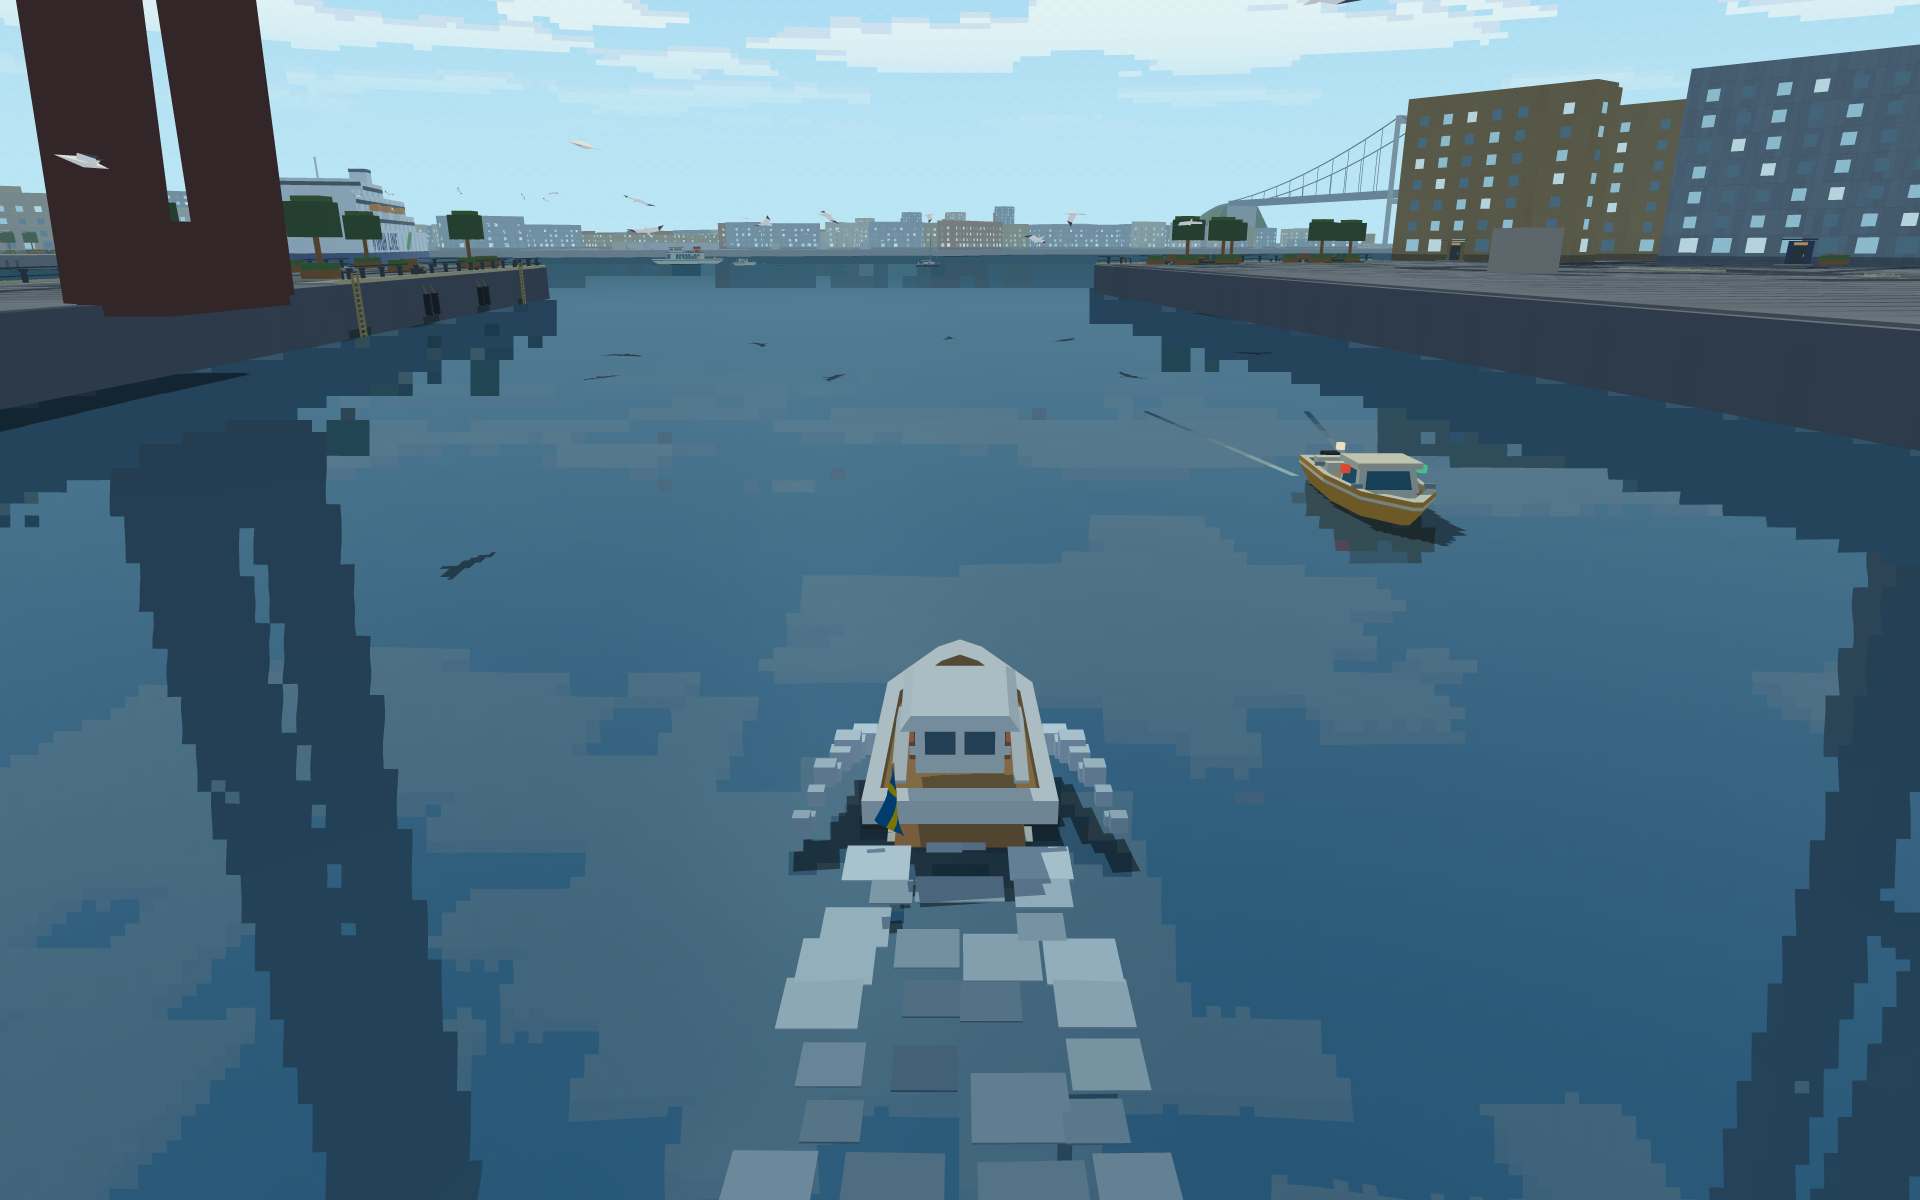
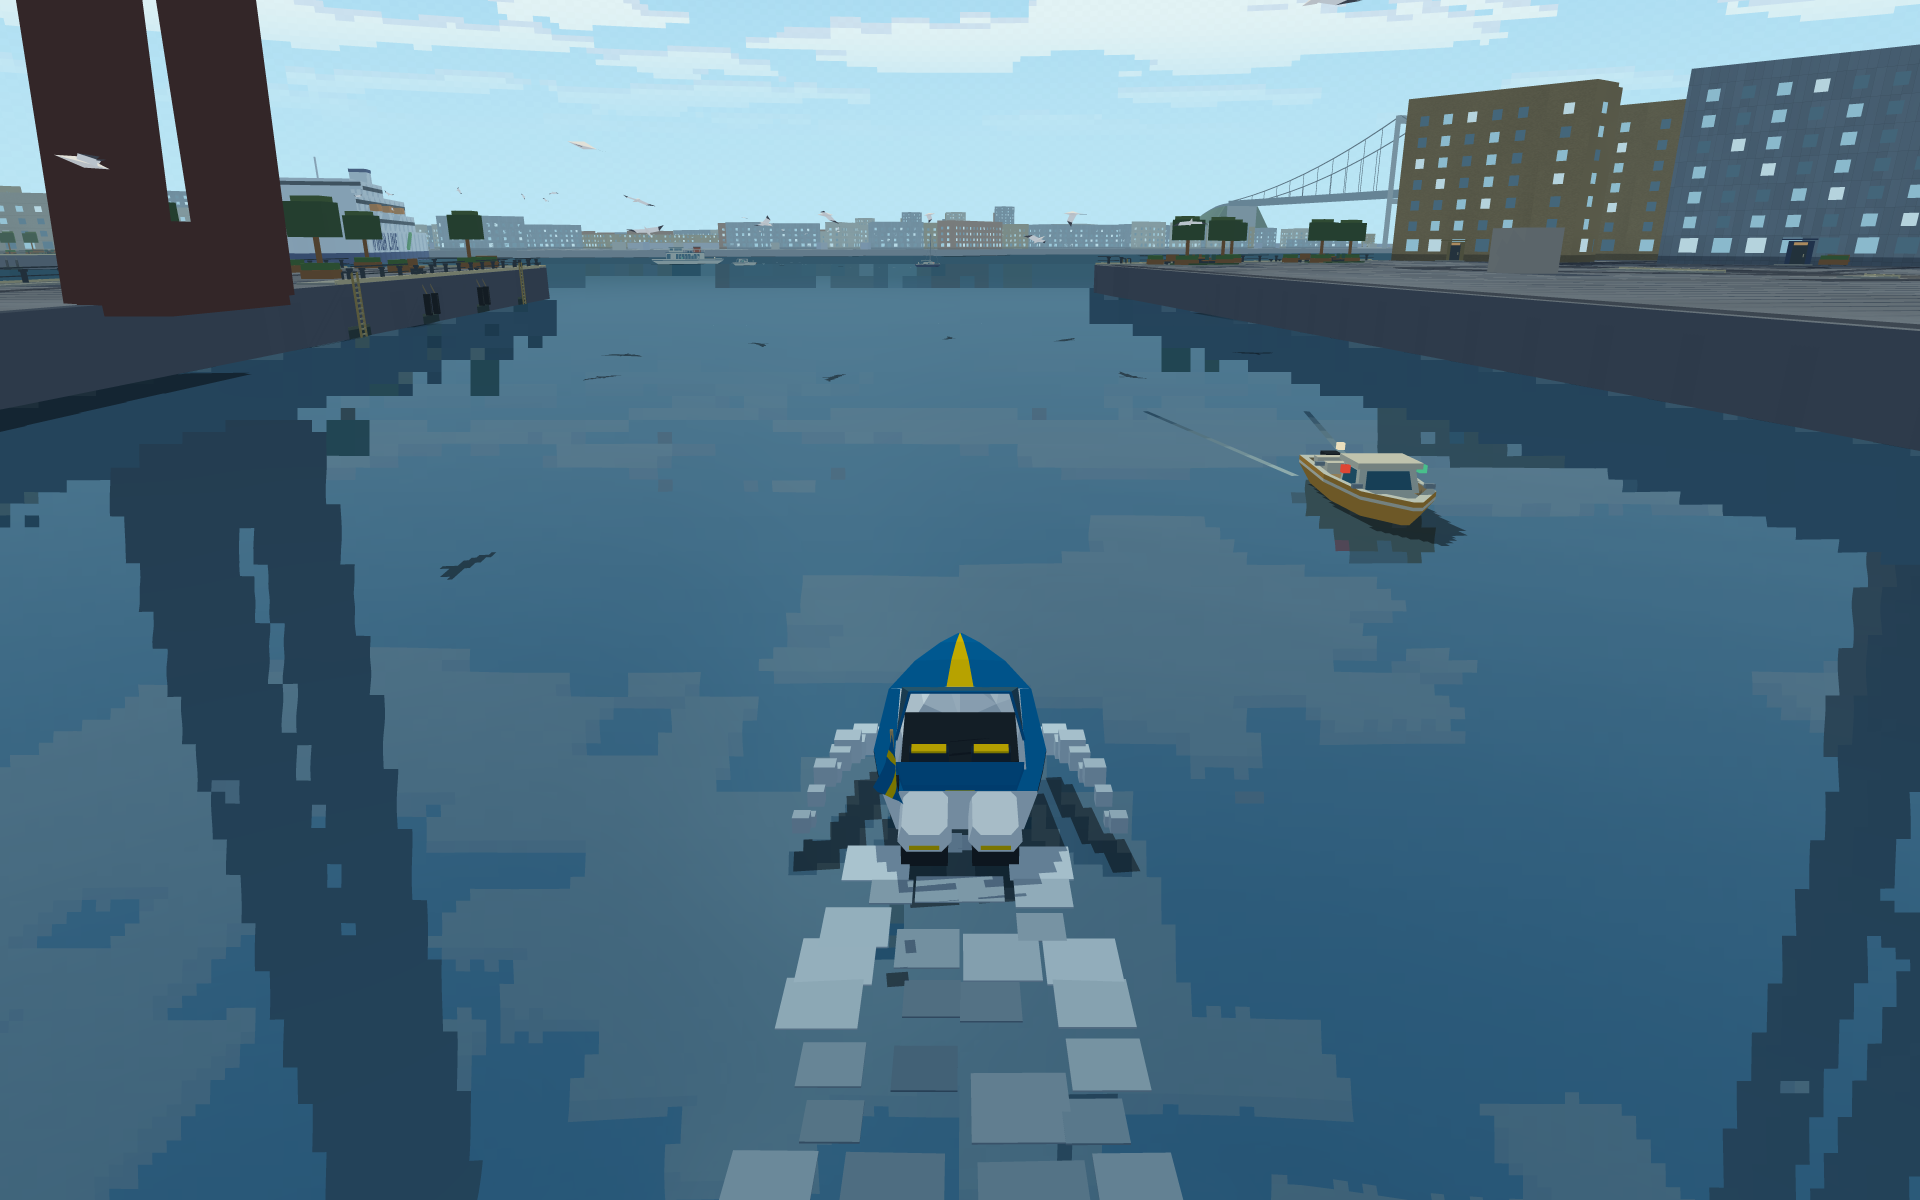
Use sans-serif Play label and Sweden boat preview

Changed region(s): [[0.4375, 0.5242, 0.5625, 0.7708], [0.4375, 0.7708, 0.4688, 0.8017]]

diff --git a/web/index.html b/web/index.html
@@ -20,7 +20,7 @@
     h1 { margin: 0 0 16px; font-size: 12px; font-weight: 500; letter-spacing: .22em; color: #afc2c4; }
     .preview { aspect-ratio: 16 / 9; border: 1px solid #43565b; background: #426779 url('river.png') center 48% / cover; }
     button, summary { font: inherit; }
-    #play { margin-top: 16px; width: 100%; min-height: 64px; display: flex; align-items: center; justify-content: center; gap: 14px; border: 1px solid #e5edcd; border-radius: 2px; background: #dbe7b3; color: #1b302f; font-size: 16px; font-weight: 700; letter-spacing: .18em; cursor: pointer; box-shadow: inset 0 -4px 0 #b6c58e; }
+    #play { margin-top: 16px; width: 100%; min-height: 64px; display: flex; align-items: center; justify-content: center; gap: 14px; border: 1px solid #e5edcd; border-radius: 2px; background: #dbe7b3; color: #1b302f; font-family: ui-sans-serif, system-ui, -apple-system, BlinkMacSystemFont, "Segoe UI", sans-serif; font-size: 16px; font-weight: 700; letter-spacing: .18em; cursor: pointer; box-shadow: inset 0 -4px 0 #b6c58e; }
     #play::before { content: ''; width: 0; height: 0; border-top: 7px solid transparent; border-bottom: 7px solid transparent; border-left: 11px solid currentColor; }
     #play:hover:enabled { background: #ebf3cf; }
     #play:active:enabled { box-shadow: none; transform: translateY(1px); }

diff --git a/docs/WEB_BUILD.md b/docs/WEB_BUILD.md
@@ -53,15 +53,23 @@ conditional iPhone Home Screen hint remain available. Plugin authoring is explic
 with `?author`; normal visitors do not see its panel. Browser qualification scripts use this
 entry point where needed and no longer depend on the removed fullscreen checkbox.
 
-`web/river.png` is a real 1920×1200 GPU capture with the cabin boat, replacing the previous
+`web/river.png` is a real 1920×1200 GPU capture with the Sweden boat, replacing the previous
 960×600 enlarged low-resolution image. It retains the river/bridge area with a closer chase
-composition. Capture recipe: temporarily insert
+composition. Capture recipe in `tools/wake_velocity.c`: temporarily insert
 `if (screenshot && !boat_gpu_resize(&gpu, 1920, 1200)) goto cleanup;` immediately before
-`texture = gpu.target.texture;` in `tools/wake_velocity.c`, build `wake_velocity`, then run
+`texture = gpu.target.texture;`, and replace `live_view.skin = skin;` with
+`live_view.skin = screenshot ? BOAT_SKIN_SWEDEN : skin;`. Build `wake_velocity`, then run
 `./build/wake_velocity --gpu --gpu-aa --location river --skin cabin --time 3 --screenshot web/river.png`
-from the repository root. Restore the temporary C edit and rebuild afterward. This bypasses
-only the capture target size; it adds no resolution option or gameplay change. Reflections,
-clouds and wakes retain the renderer's current stylization.
+from the repository root. Simulating the cabin run and changing only the rendered boat preserves
+the previous capture's exact pose and camera. Restore both temporary C edits and rebuild
+afterward. These capture-only overrides add no resolution option or gameplay change.
+Reflections, clouds and wakes retain the renderer's current stylization.
+
+User revision, 2026-11-01: PLAY uses a system sans-serif font; the screenshot uses the Sweden
+boat instead of the cabin boat. The river, capture time and resolution are retained. Debug
+build/full CTest passed again (349 enabled tests); the refreshed web package and Chrome
+1280×900/390×844 previews passed with the sans-serif computed font and 1920×1200 image checked.
+Both layouts and the new capture were inspected; no JavaScript errors were reported.
 
 Current status: implemented; verification is recorded below. Next: review the proposed layout
 and capture, then publish through the normal reviewed release/hosting workflow. This change
